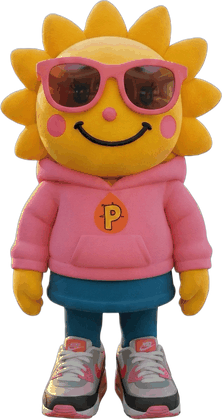
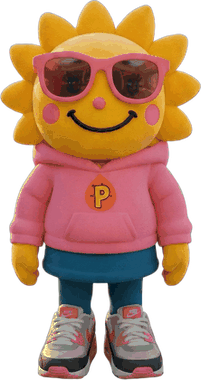
perf(ui): right-size the empty-state mascots and trim their footprint
The pair rendered at 200px/84px reserved 140px of padding above the card, 28px
more than the single placeholder did, which pushed CLEAR FILTERS past the fold
in the sheet on a 320x740 viewport. Drop to 184px/78px so the overhang lands at
8rem and the button stays fully visible there, without losing presence at 390px.

Also resize the PNGs to ~2x their rendered height (they were 5x for Rayray),
taking the pair from 243KB to 124KB, and update the intrinsic width/height
attributes to match so the aspect-ratio hint stays correct.

diff --git a/src/components/common/EmptyVenueState.jsx b/src/components/common/EmptyVenueState.jsx
@@ -4,27 +4,30 @@ import { RotateCcw, SearchX } from 'lucide-react';
 
 // Sally is a full-body mascot and Rayray is a head, so matching them on height
 // would leave her looking tiny beside him. They are matched on *head* size
-// instead: her ray span is 175px of her 420px-tall source and his is 395px of
-// his, so equal heads put him at ~44% of her height. 84px against her 200px
-// lands just under that, which reads as a natural pair rather than a clone.
-const SALLY = { src: '/assets/mascots/sally-empty.png', w: 222, h: 420 };
-const RAYRAY = { src: '/assets/mascots/rayray-empty.png', w: 414, h: 420 };
+// instead: her ray span is 0.42× her own height where his is 0.94× his, so
+// equal heads put him at ~44% of her height. 78px against her 184px lands just
+// under that, which reads as a natural pair rather than a clone.
+const SALLY = { src: '/assets/mascots/sally-empty.png', w: 201, h: 380 };
+const RAYRAY = { src: '/assets/mascots/rayray-empty.png', w: 197, h: 200 };
 
-const SALLY_H = 200;
-const RAYRAY_H = 84;
+const SALLY_H = 184;
+const RAYRAY_H = 78;
 
 // The pair is painted *behind* the card, so the card's top edge is the crop
 // line. The row is bottom-aligned and offset by `-SALLY_OVERHANG`, which puts
-// its bottom SALLY_DIP px inside the card: Sally is cut at the hem of her
-// hoodie, hiding her leggings and shoes. Rayray is lifted by RAYRAY_LIFT so he
-// only dips 22px and still shows ~three quarters of his face — bottom-aligning
-// him flush with Sally would bury all but the top of his head.
-const SALLY_DIP = 60;
+// its bottom SALLY_DIP px inside the card: Sally is cut just above the hem of
+// her hoodie, hiding her leggings and shoes. Rayray is lifted by RAYRAY_LIFT so
+// he only dips 18px and still shows ~three quarters of his face —
+// bottom-aligning him flush with Sally would bury all but the top of his head.
+//
+// Keep SALLY_OVERHANG near 8rem. It is the padding the state reserves above the
+// card, and the sheet on a short viewport (320×740) has no room to spare.
+const SALLY_DIP = 56;
 const RAYRAY_LIFT = 38;
-const SALLY_OVERHANG = SALLY_H - SALLY_DIP; // 140px of artwork above the card
+const SALLY_OVERHANG = SALLY_H - SALLY_DIP; // 128px of artwork above the card
 
-// Widest the pair can get: 106px + 83px + the 8px gap. That clears the card at
-// every viewport we support — 358px wide at 390px, and still 288px at 320px —
+// Widest the pair can get: 97px + 77px + the 8px gap. That clears the card at
+// every viewport we support — 334px wide at 390px, and still 264px at 320px —
 // so the row never has to wrap or squash. `shrink-0` on each image keeps flex
 // from distorting them if that ever stops being true.
 const MASCOT_OVERHANG = `${SALLY_OVERHANG / 16}rem`;
